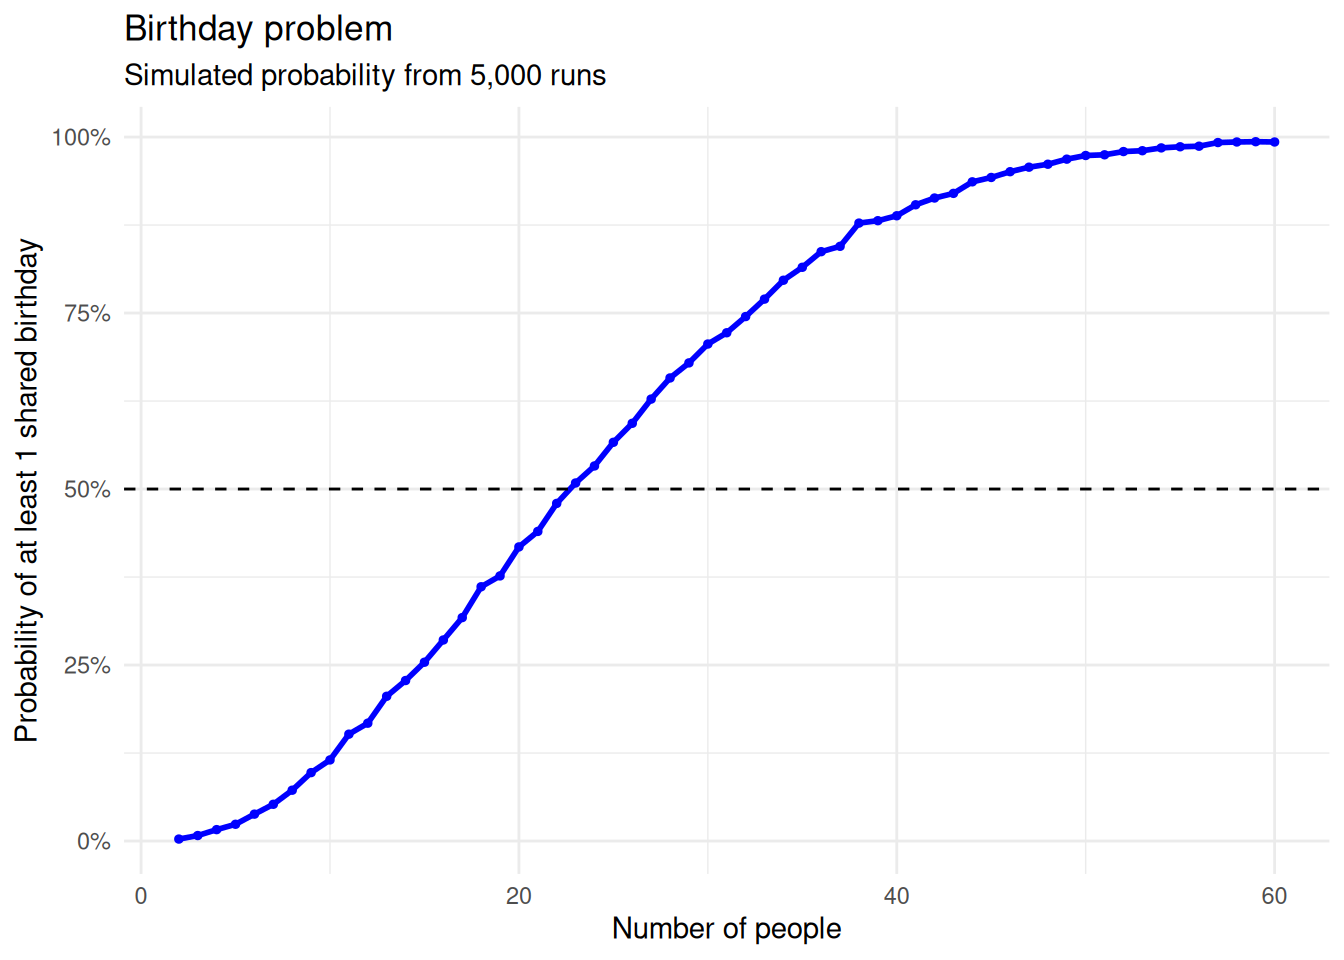
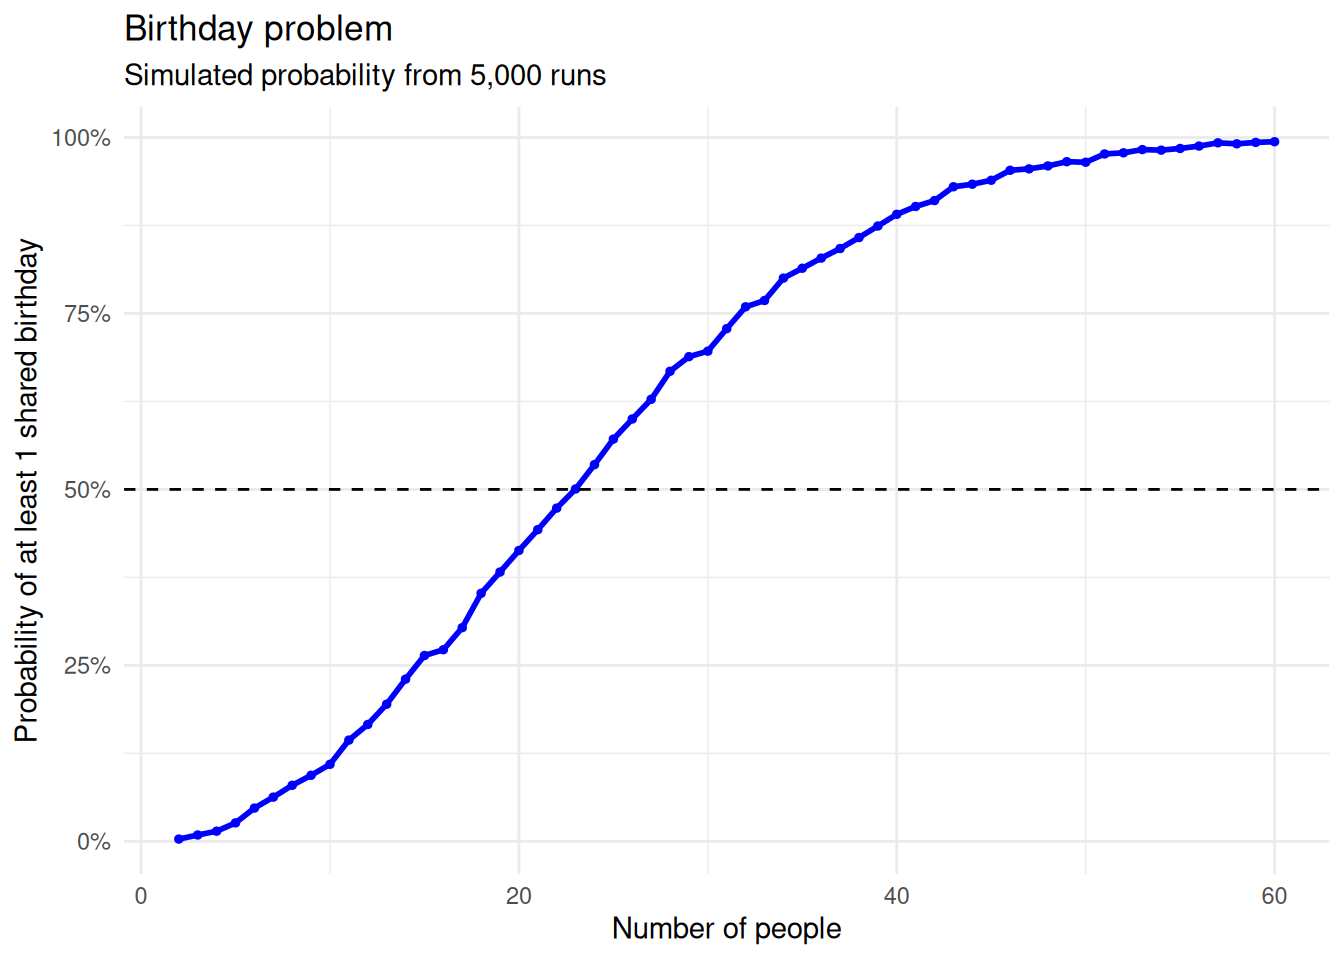
partial updates

diff --git a/docs/birthday.html b/docs/birthday.html
@@ -7,10 +7,10 @@
 <meta name="viewport" content="width=device-width, initial-scale=1.0, user-scalable=yes">
 
 <meta name="author" content="hzg00-jpg">
-<meta name="dcterms.date" content="2026-11-01">
-<meta name="description" content="Enter description">
+<meta name="dcterms.date" content="2026-11-02">
+<meta name="description" content="Analysis of the birthday problem using probability simulations">
 
-<title>birthday problem – Data science</title>
+<title>Birthday problem – Data science</title>
 <style>
 /* Default styles provided by pandoc.
 ** See https://pandoc.org/MANUAL.html#variables-for-html for config info.
@@ -177,12 +177,12 @@ pre > code.sourceCode > span > a:first-child::before { text-decoration: underlin
 
 <header id="title-block-header" class="quarto-title-block default">
 <div class="quarto-title">
-<h1 class="title">birthday problem</h1>
+<h1 class="title">Birthday problem</h1>
 </div>
 
 <div>
   <div class="description">
-    <p>Enter description</p>
+    <p>Analysis of the birthday problem using probability simulations</p>
   </div>
 </div>
 
@@ -199,7 +199,7 @@ pre > code.sourceCode > span > a:first-child::before { text-decoration: underlin
     <div>
     <div class="quarto-title-meta-heading">Published</div>
     <div class="quarto-title-meta-contents">
-      <p class="date">November 1, 2026</p>
+      <p class="date">November 2, 2026</p>
     </div>
   </div>
   
@@ -214,13 +214,13 @@ pre > code.sourceCode > span > a:first-child::before { text-decoration: underlin
 <p>Birthday problem: In a room of n people, what is the probability that at least 2 people will share a birthday?</p>
 <p>Although there are 365 days in a year, the unintuitive answer is that if there are just 23 people in the same room, there is over a 50% chance that two people share the same birthday. In this project, we will try to explain the unintuitive answer by running simulations that shows the probability that at least 2 people have the same birthday in a room of n people.</p>
 <p>This simulation creates a function called <code>simulate_birthday()</code> that randomly assigns a birthday to each person in a room, assuming 365 equally likely birthdays. It then checks for matching birthdays using <code>duplicated()</code> and <code>any()</code>, returning <code>TRUE</code> if there is a match and <code>FALSE</code> otherwise. This process is repeated 5,000 times to estimate the probability of a shared birthday by calculating the proportion of successful matches. We then map this process using using <code>map_dbl()</code>, applying this process to room sizes ranging from 2 to 60 people, allowing us to see how the probability changes as the number of people increases.</p>
-<section id="code" class="level2">
-<h2 class="anchored" data-anchor-id="code">Code</h2>
+<section id="results" class="level2">
+<h2 class="anchored" data-anchor-id="results">Results</h2>
 <div class="cell">
 <details class="code-fold">
 <summary>Code</summary>
 <div class="code-copy-outer-scaffold"><div class="sourceCode cell-code" id="cb1"><pre class="sourceCode r code-with-copy"><code class="sourceCode r"><span id="cb1-1"><a href="#cb1-1" aria-hidden="true" tabindex="-1"></a><span class="fu">library</span>(tidyverse)</span>
-<span id="cb1-2"><a href="#cb1-2" aria-hidden="true" tabindex="-1"></a><span class="fu">set.seed</span>(<span class="dv">47</span>)</span>
+<span id="cb1-2"><a href="#cb1-2" aria-hidden="true" tabindex="-1"></a><span class="fu">set.seed</span>(<span class="dv">4747</span>)</span>
 <span id="cb1-3"><a href="#cb1-3" aria-hidden="true" tabindex="-1"></a></span>
 <span id="cb1-4"><a href="#cb1-4" aria-hidden="true" tabindex="-1"></a>num_of_people <span class="ot">&lt;-</span> <span class="dv">2</span><span class="sc">:</span><span class="dv">60</span></span>
 <span id="cb1-5"><a href="#cb1-5" aria-hidden="true" tabindex="-1"></a>num_of_runs <span class="ot">&lt;-</span> <span class="dv">5000</span></span>
@@ -249,18 +249,18 @@ pre > code.sourceCode > span > a:first-child::before { text-decoration: underlin
 <pre><code># A tibble: 12 × 2
    people probability
     &lt;int&gt;       &lt;dbl&gt;
- 1      5      0.0238
- 2     10      0.115 
- 3     15      0.254 
- 4     20      0.418 
- 5     25      0.566 
- 6     30      0.706 
- 7     35      0.815 
- 8     40      0.888 
- 9     45      0.943 
-10     50      0.974 
-11     55      0.986 
-12     60      0.993 </code></pre>
+ 1      5      0.0262
+ 2     10      0.109 
+ 3     15      0.264 
+ 4     20      0.413 
+ 5     25      0.571 
+ 6     30      0.696 
+ 7     35      0.814 
+ 8     40      0.891 
+ 9     45      0.939 
+10     50      0.965 
+11     55      0.984 
+12     60      0.994 </code></pre>
 </div>
 <details class="code-fold">
 <summary>Code</summary>
